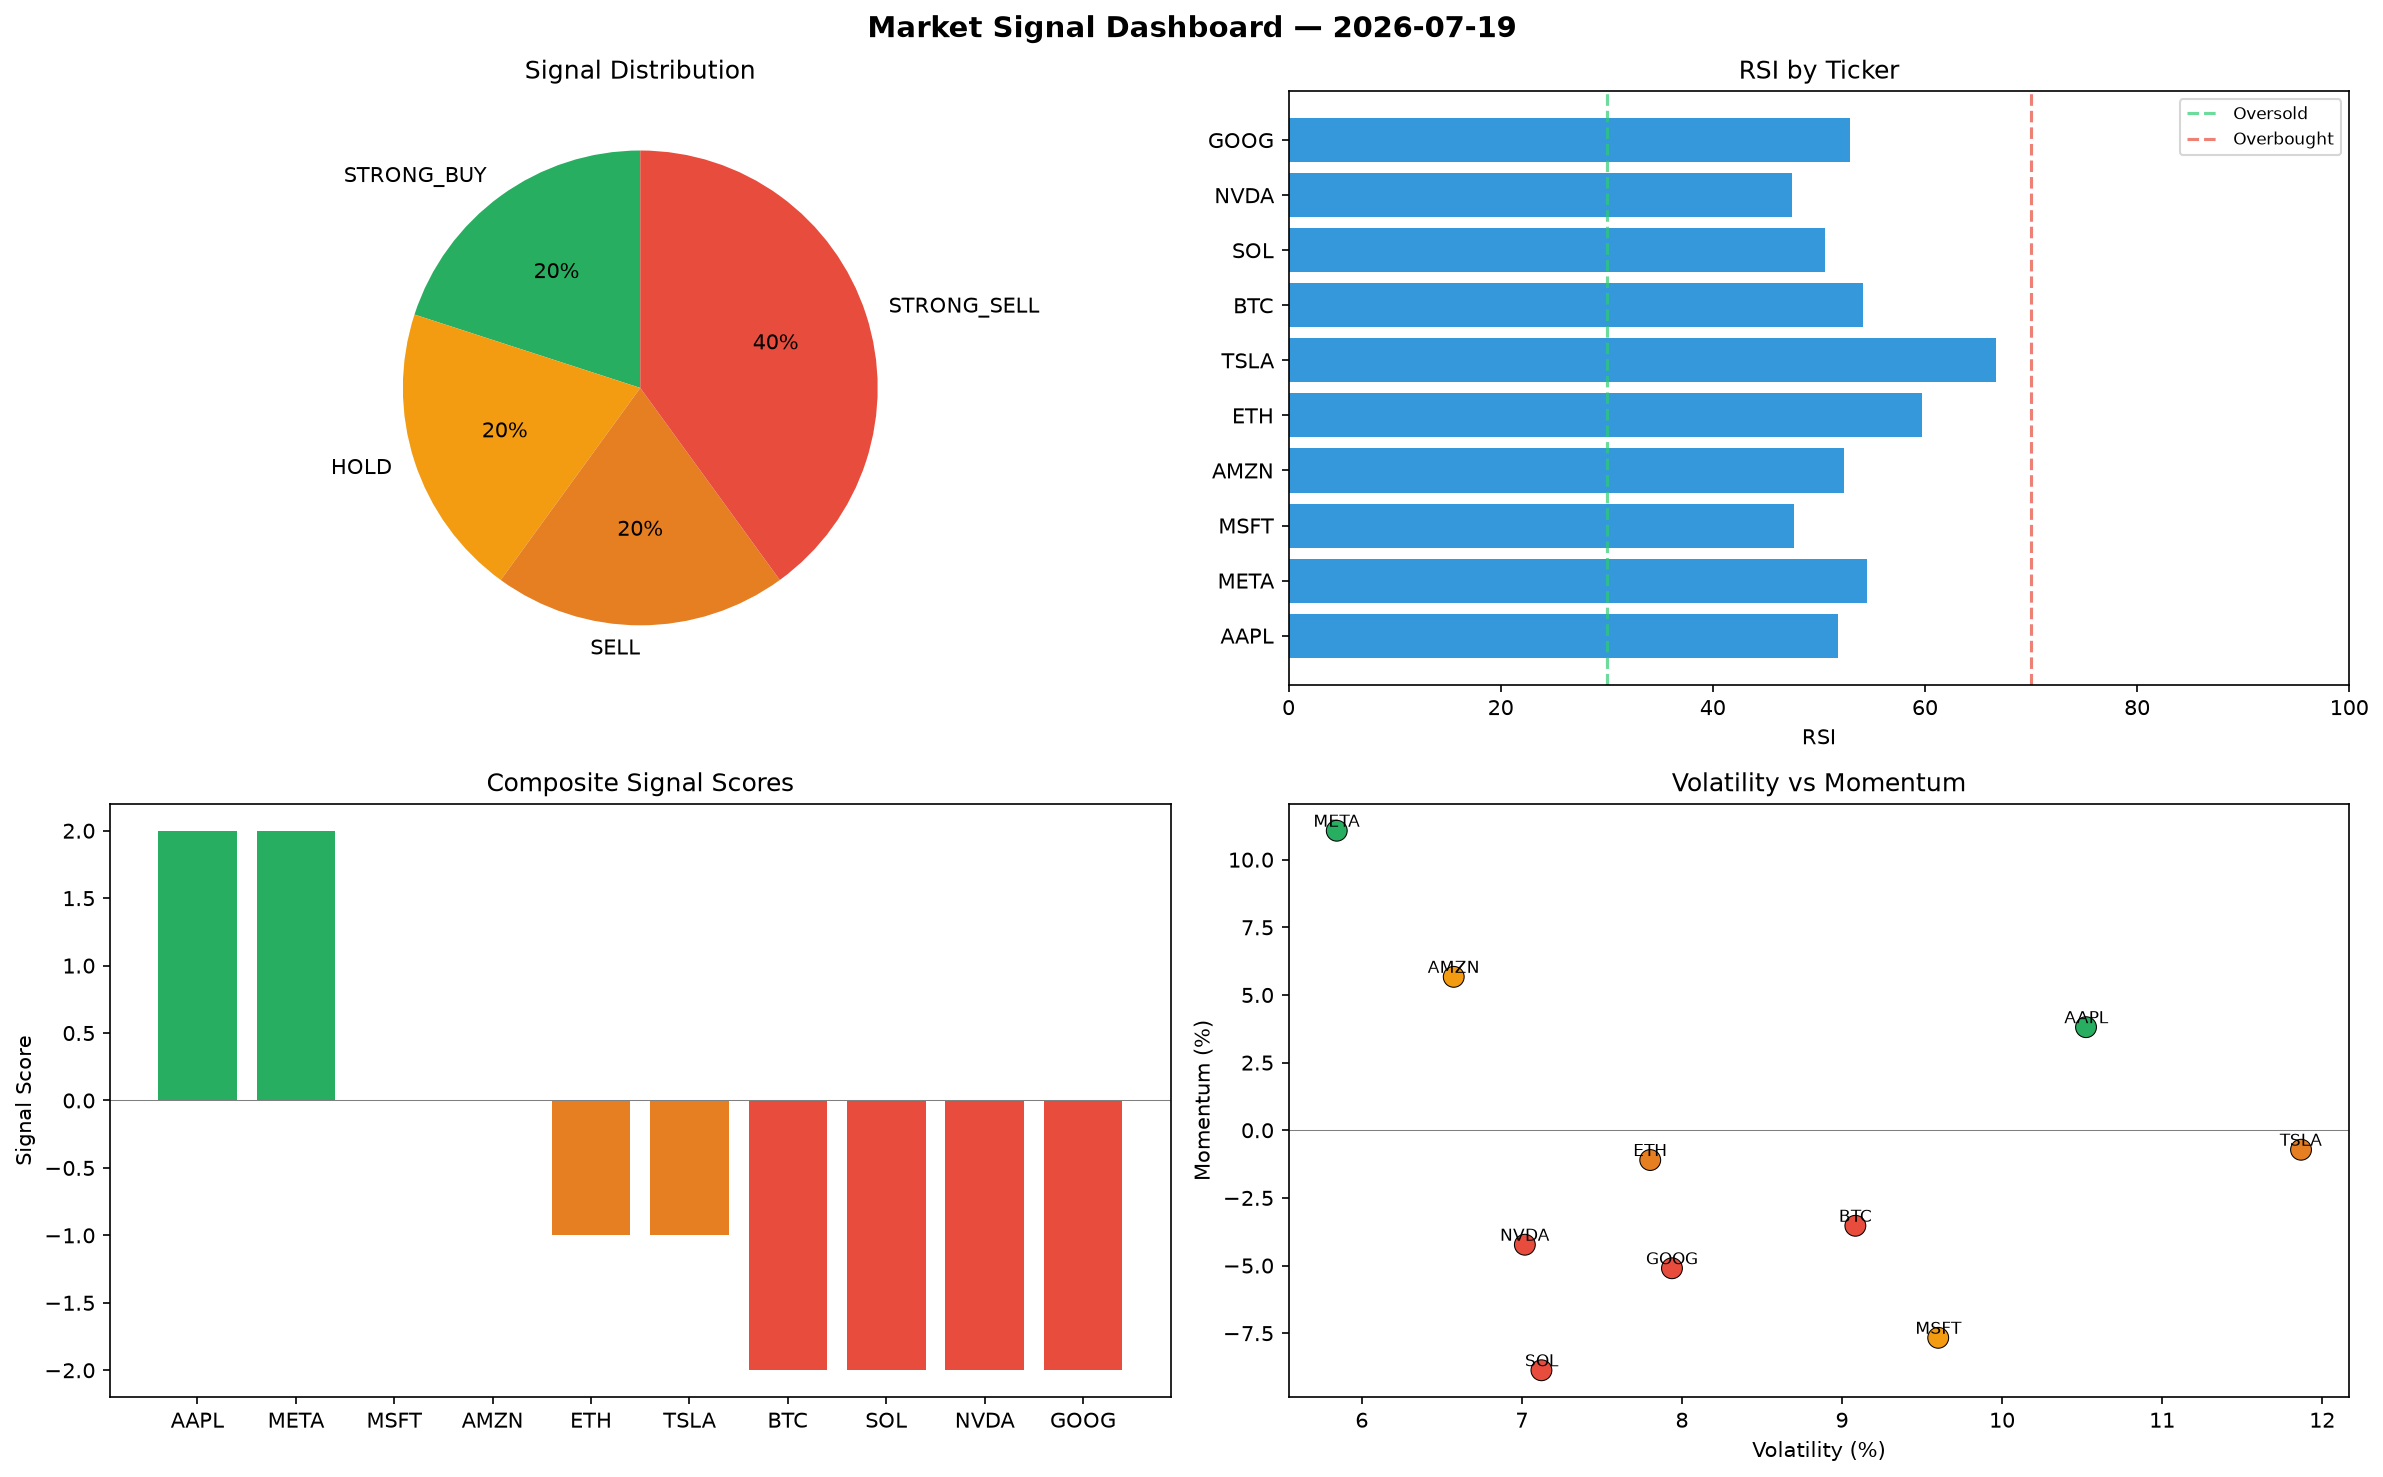
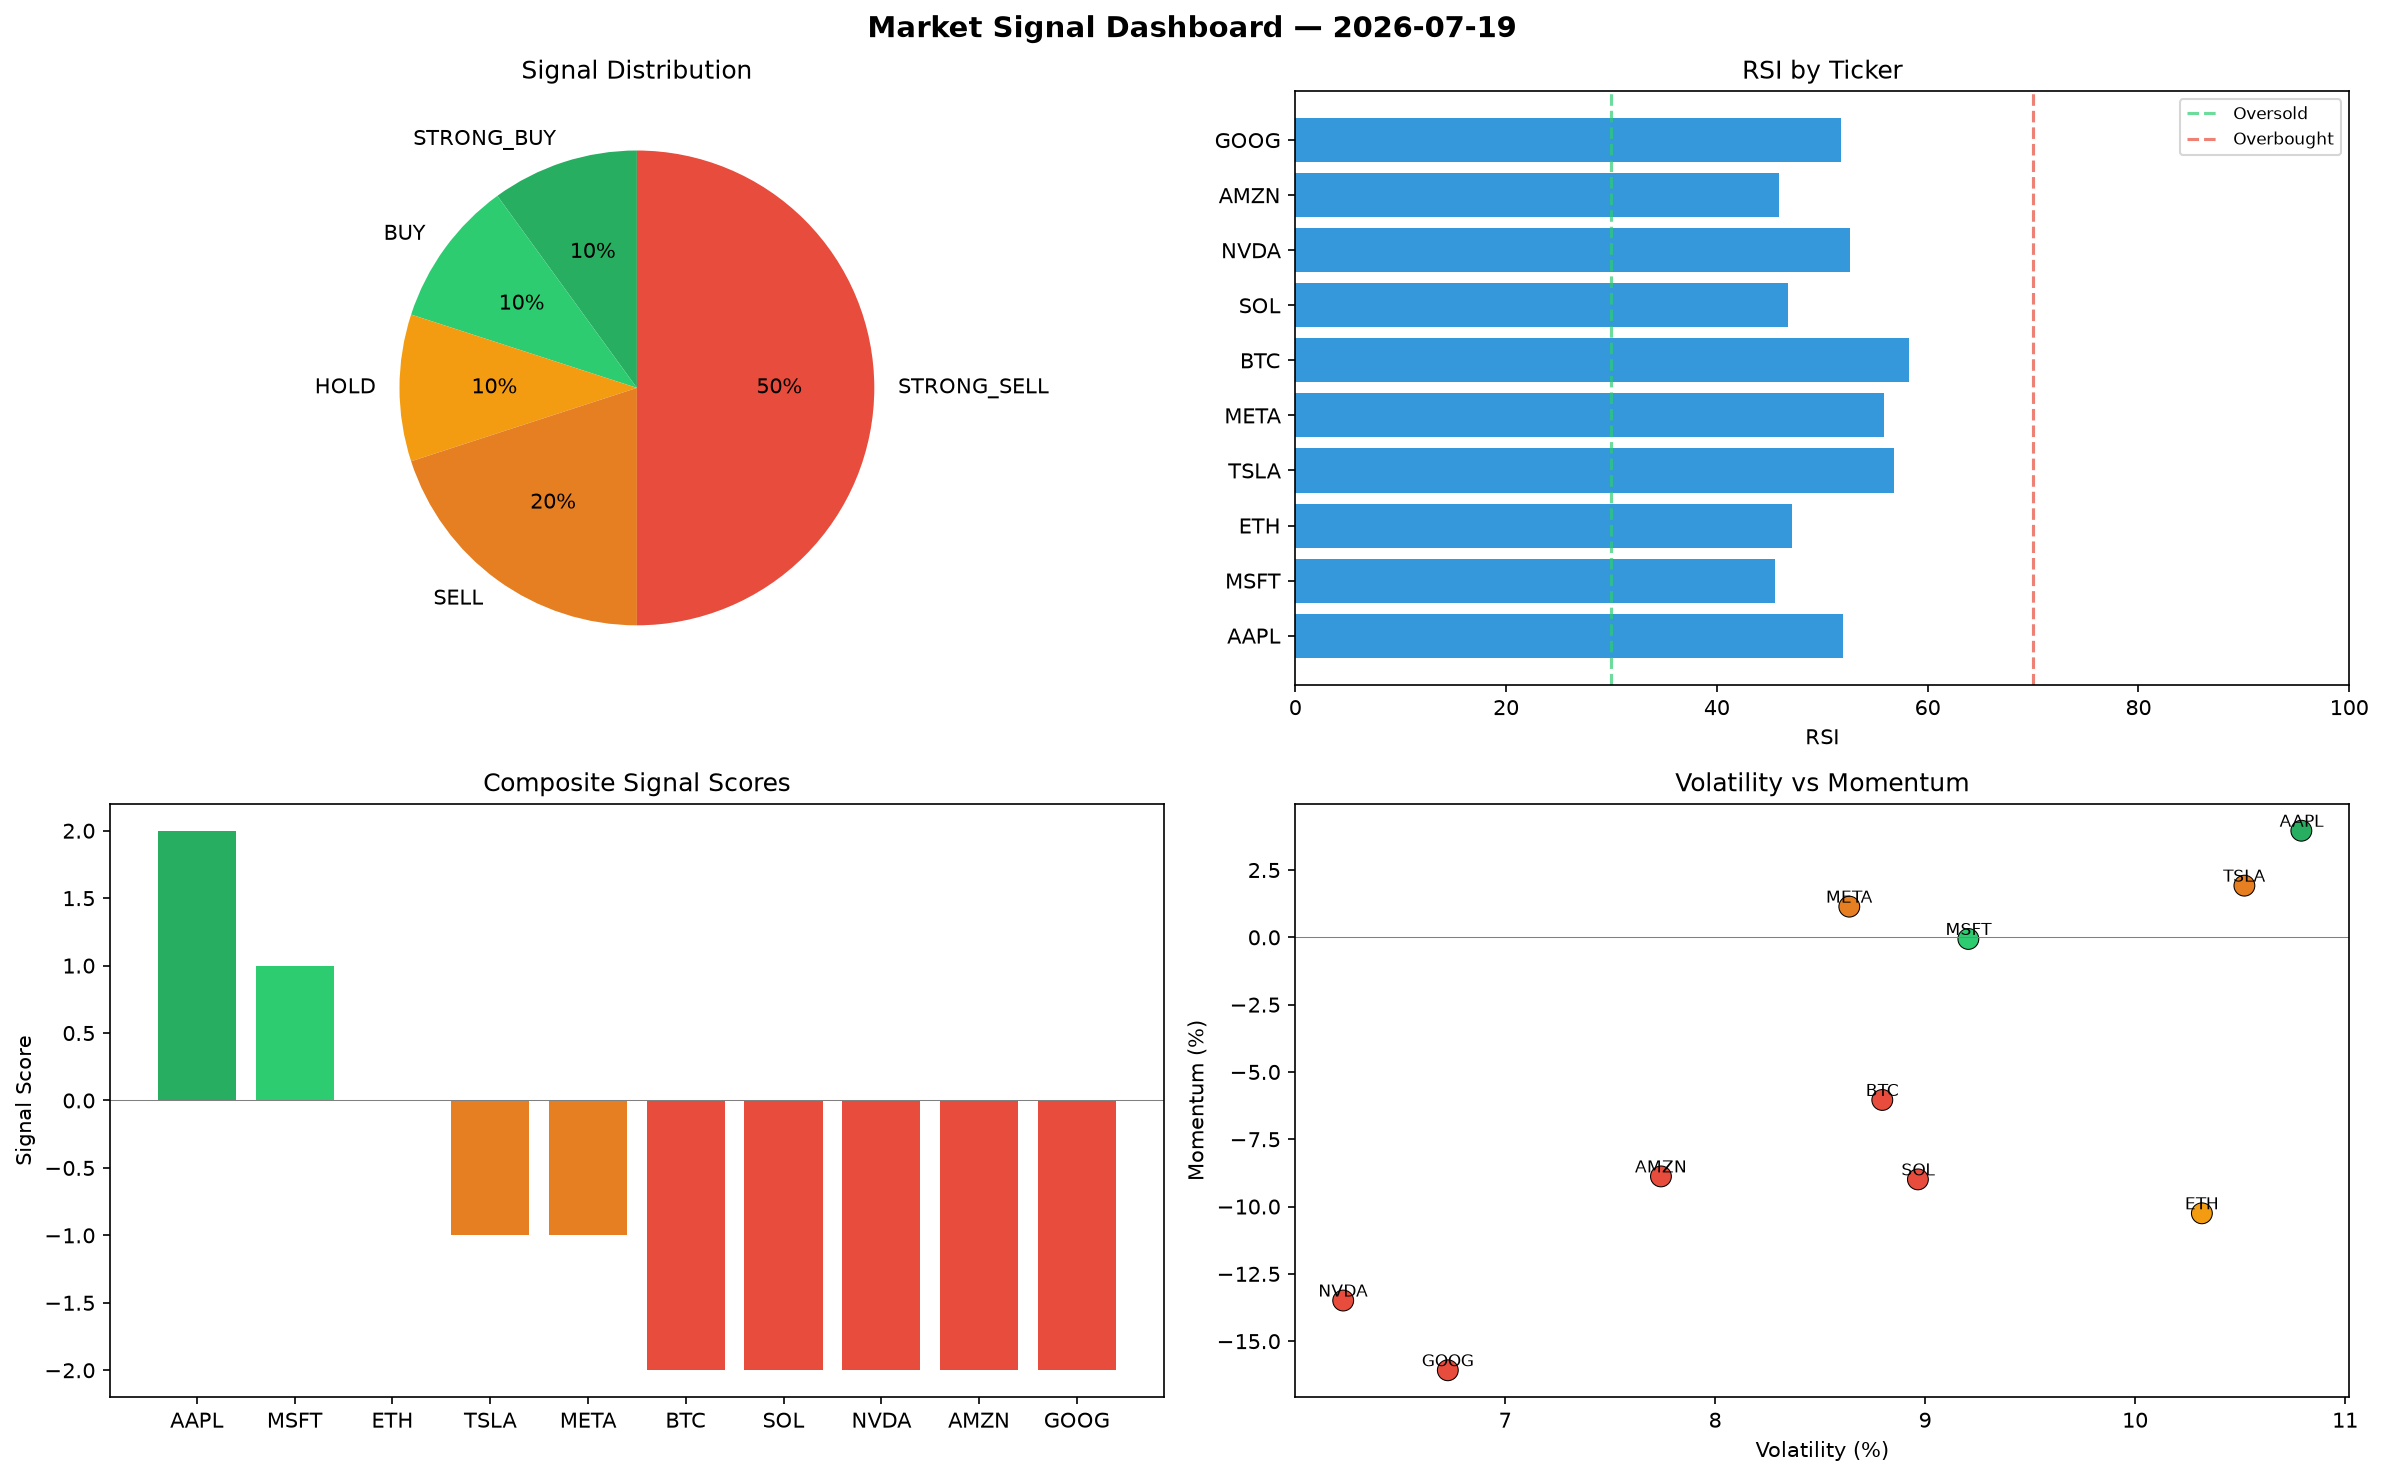
automated-bots: market signals 2026-07-19T10:05

diff --git a/logs/2026-07-19.md b/logs/2026-07-19.md
@@ -1,6 +1,6 @@
 # Market Signal Report — 2026-07-19
 
-**Run ID:** `d41434bb58` | **Buy:** 2 | **Sell:** 6 | **Hold:** 2
+**Run ID:** `c5b58bf5be` | **Buy:** 2 | **Sell:** 7 | **Hold:** 1
 
 ![Dashboard](2026-07-19_dashboard.png)
 
@@ -8,28 +8,28 @@
 
 | Ticker | Price | Signal | Score | RSI | Momentum | Confidence |
 |--------|-------|--------|-------|-----|----------|------------|
-| AAPL | $1935.15 | **STRONG_BUY** | 2 | 51.83 | 0.0381 | 0.5 |
-| META | $649.2 | **STRONG_BUY** | 2 | 54.55 | 0.1107 | 0.5 |
-| MSFT | $104.06 | **HOLD** | 0 | 47.63 | -0.0767 | 0.0 |
-| AMZN | $1171.27 | **HOLD** | 0 | 52.32 | 0.0567 | 0.0 |
-| ETH | $3928.49 | **SELL** | -1 | 59.72 | -0.011 | 0.25 |
-| TSLA | $4197.88 | **SELL** | -1 | 66.68 | -0.0072 | 0.25 |
-| BTC | $4147.4 | **STRONG_SELL** | -2 | 54.13 | -0.0353 | 0.5 |
-| SOL | $2157.63 | **STRONG_SELL** | -2 | 50.57 | -0.0887 | 0.5 |
-| NVDA | $4347.53 | **STRONG_SELL** | -2 | 47.51 | -0.0423 | 0.5 |
-| GOOG | $1544.45 | **STRONG_SELL** | -2 | 52.93 | -0.051 | 0.5 |
+| AAPL | $368.42 | **STRONG_BUY** | 2 | 51.96 | 0.0396 | 0.5 |
+| MSFT | $1405.17 | **BUY** | 1 | 45.49 | -0.0006 | 0.25 |
+| ETH | $1197.65 | **HOLD** | 0 | 47.13 | -0.1025 | 0.0 |
+| TSLA | $931.7 | **SELL** | -1 | 56.78 | 0.0192 | 0.25 |
+| META | $38.25 | **SELL** | -1 | 55.86 | 0.0114 | 0.25 |
+| BTC | $4080.68 | **STRONG_SELL** | -2 | 58.26 | -0.0604 | 0.5 |
+| SOL | $3687.72 | **STRONG_SELL** | -2 | 46.75 | -0.0899 | 0.5 |
+| NVDA | $1867.62 | **STRONG_SELL** | -2 | 52.61 | -0.1349 | 0.5 |
+| AMZN | $4785.68 | **STRONG_SELL** | -2 | 45.88 | -0.0888 | 0.5 |
+| GOOG | $2539.34 | **STRONG_SELL** | -2 | 51.75 | -0.1608 | 0.5 |
 
 ## Delta vs Yesterday
 
 | Ticker | Today | Yesterday | Price Change | Signal Changed |
 |--------|-------|-----------|-------------|----------------|
-| AAPL | STRONG_BUY | STRONG_BUY | 📉 -21.68% | — |
-| META | STRONG_BUY | SELL | 📉 -78.26% | ⚠ YES |
-| MSFT | HOLD | HOLD | 📉 -95.51% | — |
-| AMZN | HOLD | STRONG_SELL | 📉 -33.32% | ⚠ YES |
-| ETH | SELL | STRONG_SELL | 📈 7685.35% | ⚠ YES |
-| TSLA | SELL | HOLD | 📉 -5.93% | ⚠ YES |
-| BTC | STRONG_SELL | STRONG_SELL | 📉 -5.06% | — |
-| SOL | STRONG_SELL | BUY | 📈 1287.28% | ⚠ YES |
-| NVDA | STRONG_SELL | HOLD | 📈 244.07% | ⚠ YES |
-| GOOG | STRONG_SELL | STRONG_BUY | 📉 -50.36% | ⚠ YES |
+| AAPL | STRONG_BUY | STRONG_BUY | 📉 -85.09% | — |
+| MSFT | BUY | HOLD | 📉 -39.37% | ⚠ YES |
+| ETH | HOLD | STRONG_SELL | 📈 2273.46% | ⚠ YES |
+| TSLA | SELL | HOLD | 📉 -79.12% | ⚠ YES |
+| META | SELL | SELL | 📉 -98.72% | — |
+| BTC | STRONG_SELL | STRONG_SELL | 📉 -6.59% | — |
+| SOL | STRONG_SELL | BUY | 📈 2271.07% | ⚠ YES |
+| NVDA | STRONG_SELL | HOLD | 📈 47.81% | ⚠ YES |
+| AMZN | STRONG_SELL | STRONG_SELL | 📈 172.46% | — |
+| GOOG | STRONG_SELL | STRONG_BUY | 📉 -18.38% | ⚠ YES |
